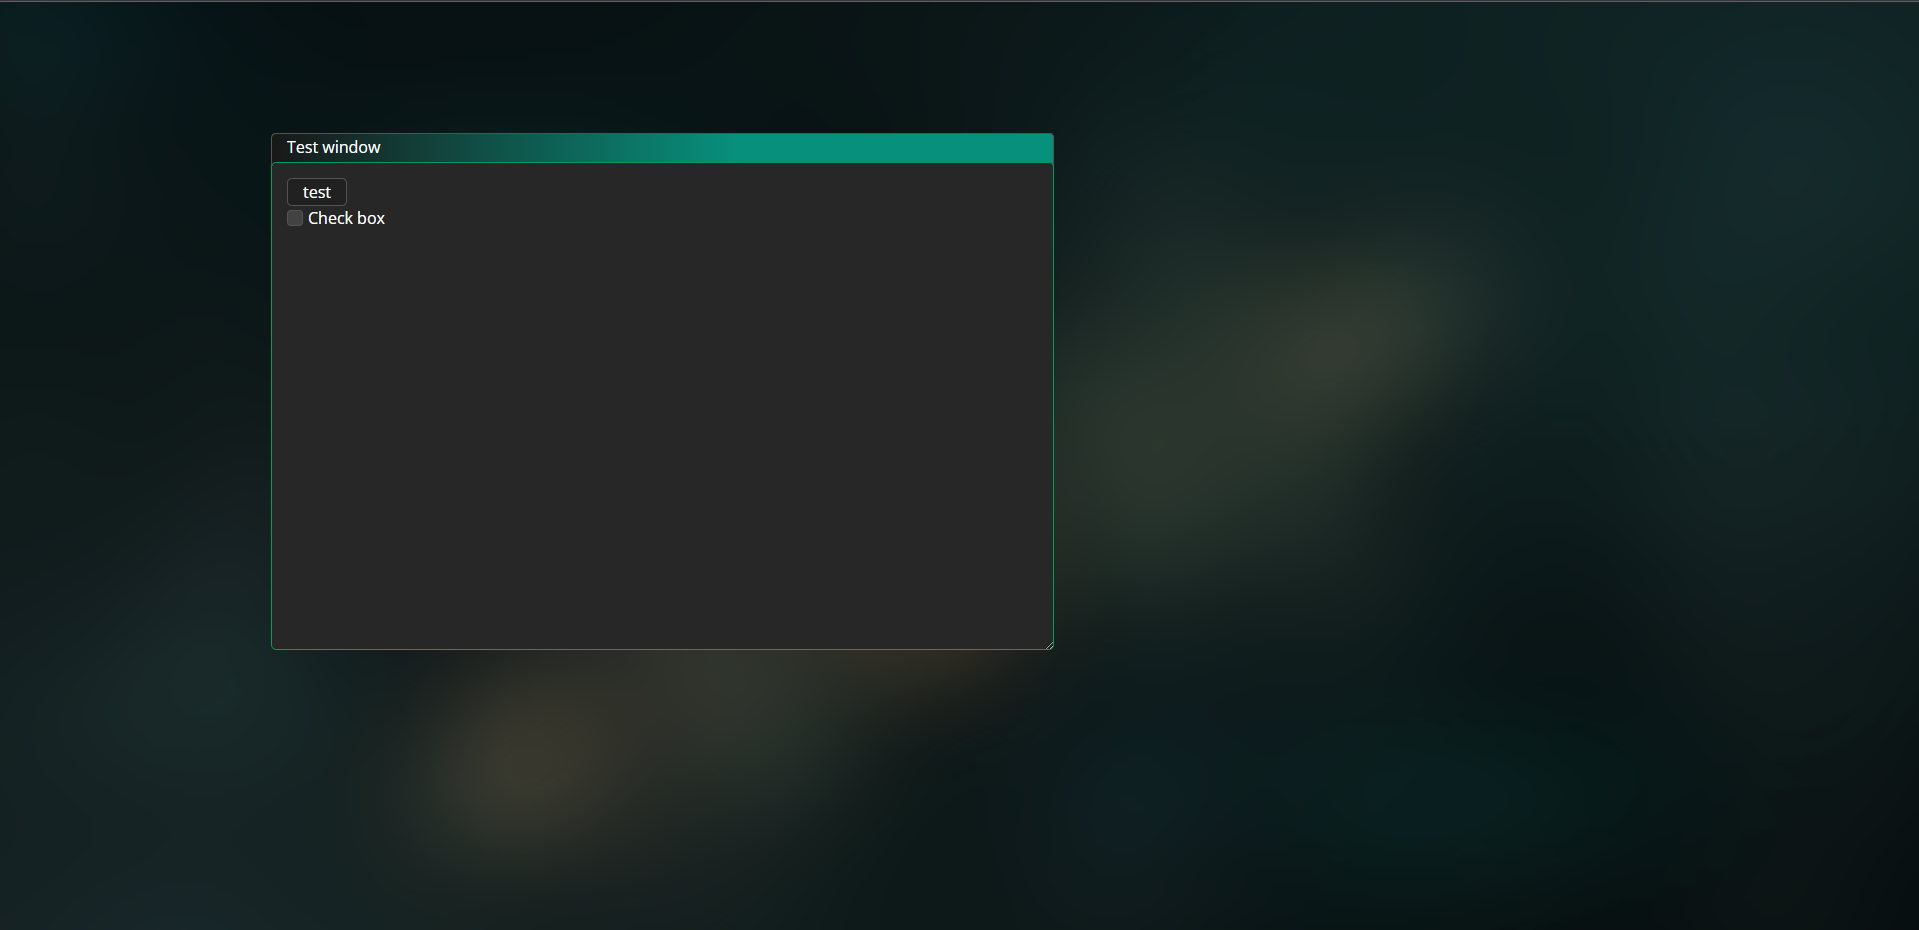
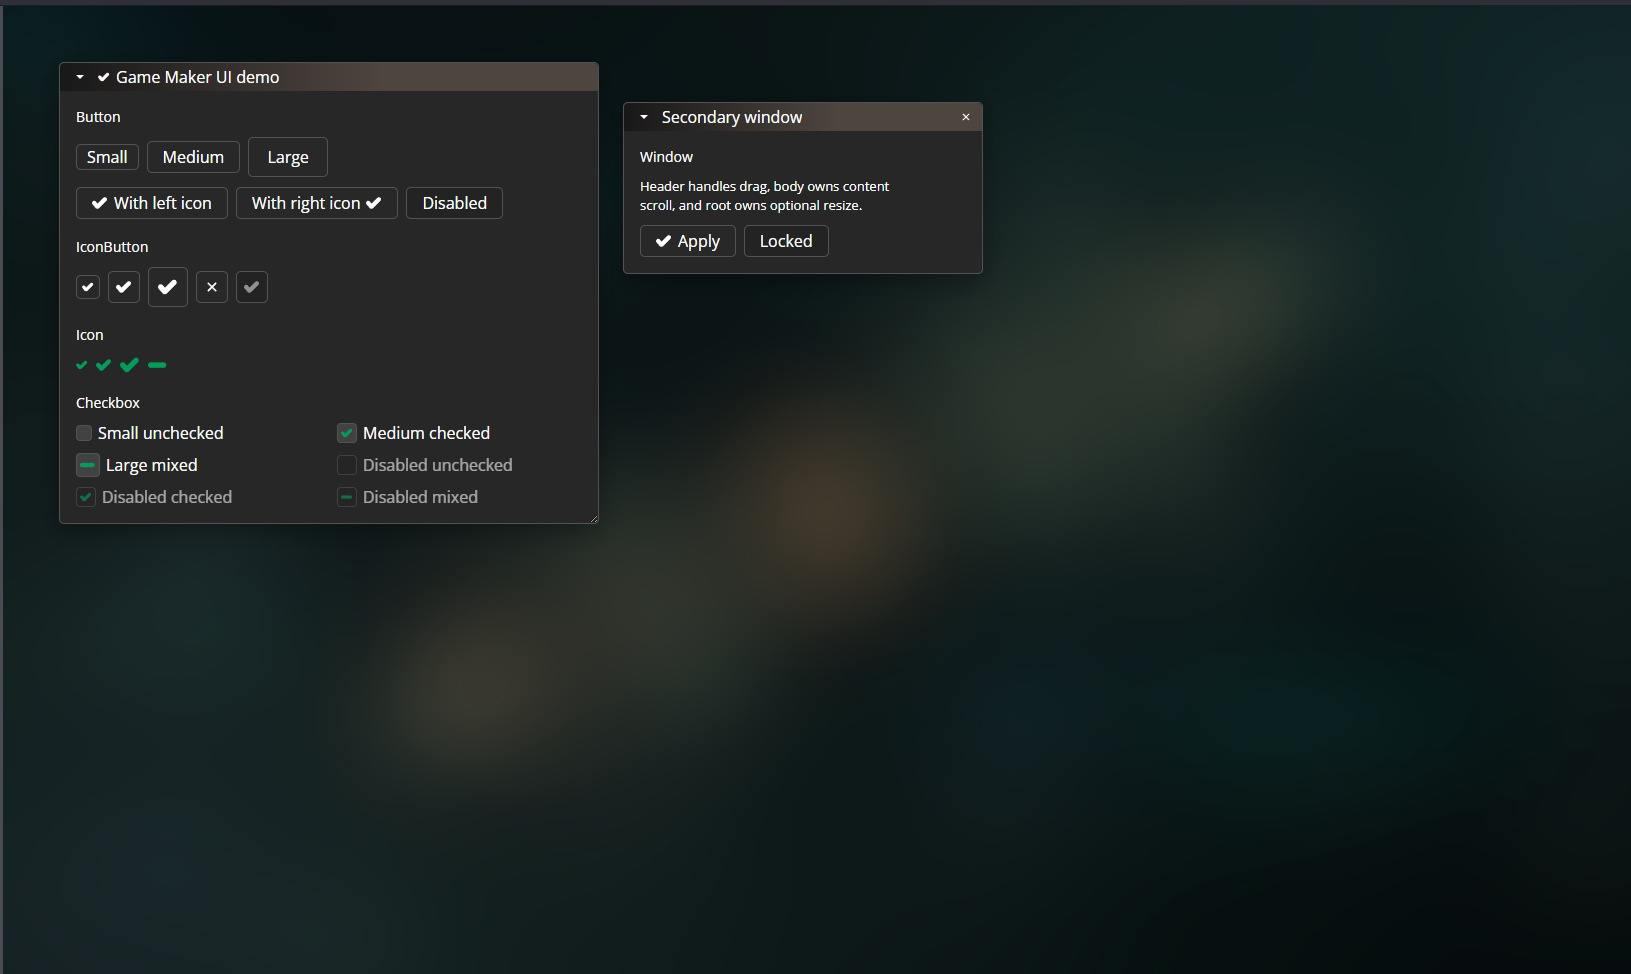
docs: :memo: update README

diff --git a/README.md b/README.md
@@ -1,3 +1,246 @@
-# Trying to implement Game Maker (Studio 2) UI on the React
+# Game Maker UI
+
+React UI library inspired by GameMaker Studio 2 interface patterns.
+
+[Live demo](https://damirlut.github.io/game-maker-ui/) · [Storybook](https://damirlut.github.io/game-maker-ui/storybook)
+
+> ⚠
+> This library is still in active development and is not published to npm yet. The public API, styling, and package contract may change before the first stable release.
 
 ![Preview](.github/art/preview.png)
+
+## Overview
+
+Game Maker UI is a small component library for building desktop-like, game-tooling interfaces in React. The visual language follows GameMaker Studio 2-style controls: compact buttons, pixel-sharp window chrome, simple icons, tri-state checkboxes, draggable panels, and resizable utility windows.
+
+## Features
+
+- React 18 and React 19 peer dependency support.
+- Typed TypeScript component API.
+- GameMaker-inspired visual theme.
+- Button, IconButton, Icon, Checkbox, and Window components.
+- Tri-state checkbox support with `checked="mixed"`.
+- Compound `Window` API with `Window.Header` and `Window.Body`.
+- Controlled and uncontrolled state support where it matters.
+- Separate CSS export for explicit style loading.
+- Storybook documentation for visual inspection.
+
+## Installation
+
+The package is not published to npm yet. The commands below describe the intended installation flow after publication:
+
+```bash
+npm install game-maker-ui
+```
+
+```bash
+bun add game-maker-ui
+```
+
+React and React DOM are peer dependencies:
+
+```bash
+npm install react react-dom
+```
+
+## Usage
+
+Import the stylesheet once near your application entrypoint:
+
+```tsx
+import "game-maker-ui/styles.css";
+```
+
+Then import components from the package root:
+
+```tsx
+import { useState } from "react";
+import { Button, Checkbox, Window } from "game-maker-ui";
+
+export function App() {
+  const [visible, setVisible] = useState(true);
+
+  if (!visible) {
+    return <Button onClick={() => setVisible(true)}>Restore</Button>;
+  }
+
+  return (
+    <Window width={360} draggable defaultPosition={{ x: 32, y: 32 }}>
+      <Window.Header
+        title="Inspector"
+        collapsible
+        closable
+        onClose={() => setVisible(false)}
+      />
+      <Window.Body>
+        <Checkbox label="Snap to grid" defaultChecked />
+        <Button>Apply</Button>
+      </Window.Body>
+    </Window>
+  );
+}
+```
+
+## Examples
+
+### Button
+
+```tsx
+import { Button } from "game-maker-ui";
+
+export function Toolbar() {
+  return (
+    <div>
+      <Button size="sm">Small</Button>
+      <Button size="md">Medium</Button>
+      <Button size="lg" disabled>
+        Disabled
+      </Button>
+    </div>
+  );
+}
+```
+
+### Checkbox
+
+```tsx
+import { Checkbox } from "game-maker-ui";
+
+export function Options() {
+  return (
+    <form>
+      <Checkbox label="Visible" defaultChecked />
+      <Checkbox label="Partially selected" checked="mixed" readOnly />
+      <Checkbox label="Disabled" disabled />
+    </form>
+  );
+}
+```
+
+### Window
+
+```tsx
+import { useState } from "react";
+import { Button, Window } from "game-maker-ui";
+
+export function FloatingWindow() {
+  const [position, setPosition] = useState({ x: 48, y: 48 });
+  const [collapsed, setCollapsed] = useState(false);
+
+  return (
+    <Window
+      width={380}
+      position={position}
+      onPositionChange={setPosition}
+      collapsed={collapsed}
+      onCollapsedChange={setCollapsed}
+      draggable
+      resizable
+    >
+      <Window.Header title="Room Editor" collapsible closable />
+      <Window.Body>
+        <Button onClick={() => setPosition({ x: 0, y: 0 })}>
+          Reset position
+        </Button>
+      </Window.Body>
+    </Window>
+  );
+}
+```
+
+### IconButton
+
+```tsx
+import type { SVGProps } from "react";
+import { Icon, IconButton } from "game-maker-ui";
+
+function SaveIcon(props: SVGProps<SVGSVGElement>) {
+  return (
+    <svg viewBox="0 0 16 16" {...props}>
+      <path d="M3 2h8l2 2v10H3z" />
+      <path d="M5 2v4h6V2" />
+      <path d="M5 10h6v4H5z" />
+    </svg>
+  );
+}
+
+export function SaveButton() {
+  return (
+    <IconButton
+      aria-label="Save"
+      variant="ghost"
+      icon={<Icon svg={SaveIcon} size="sm" />}
+    />
+  );
+}
+```
+
+## Components
+
+| Component    | Purpose                                                                                                         |
+| ------------ | --------------------------------------------------------------------------------------------------------------- |
+| `Button`     | Standard button with `sm`, `md`, and `lg` sizes plus optional left and right icon slots.                        |
+| `IconButton` | Icon-only button with required `aria-label`, `solid` and `ghost` variants, and size support.                    |
+| `Icon`       | Wrapper for SVG React components with library sizing.                                                           |
+| `Checkbox`   | Checkbox with label support, disabled state, sizes, and boolean or `"mixed"` checked state.                     |
+| `Window`     | Compound floating panel with header/body, controlled collapse, drag position, close action, and resize support. |
+
+## Styling
+
+The package does not inject styles automatically. Import the CSS file explicitly:
+
+```tsx
+import "game-maker-ui/styles.css";
+```
+
+This keeps the dependency boundary obvious and works with common bundlers such as Vite, Rollup, Webpack, and modern application frameworks that support package CSS imports.
+
+## Local Development
+
+Install dependencies:
+
+```bash
+bun install
+```
+
+Run the demo app:
+
+```bash
+bun run dev
+```
+
+Run Storybook:
+
+```bash
+bun run storybook
+```
+
+Build the library:
+
+```bash
+bun run build
+```
+
+Run checks:
+
+```bash
+bun run typecheck
+bun run lint
+bun run test
+```
+
+## Package Exports
+
+The package exposes:
+
+```ts
+import { Button, Checkbox, Icon, IconButton, Window } from "game-maker-ui";
+import "game-maker-ui/styles.css";
+```
+
+The package build outputs ESM, CommonJS, TypeScript declarations, and CSS under `dist`.
+
+## Links
+
+- [Live demo](https://damirlut.github.io/game-maker-ui/)
+- [Storybook](https://damirlut.github.io/game-maker-ui/storybook)
